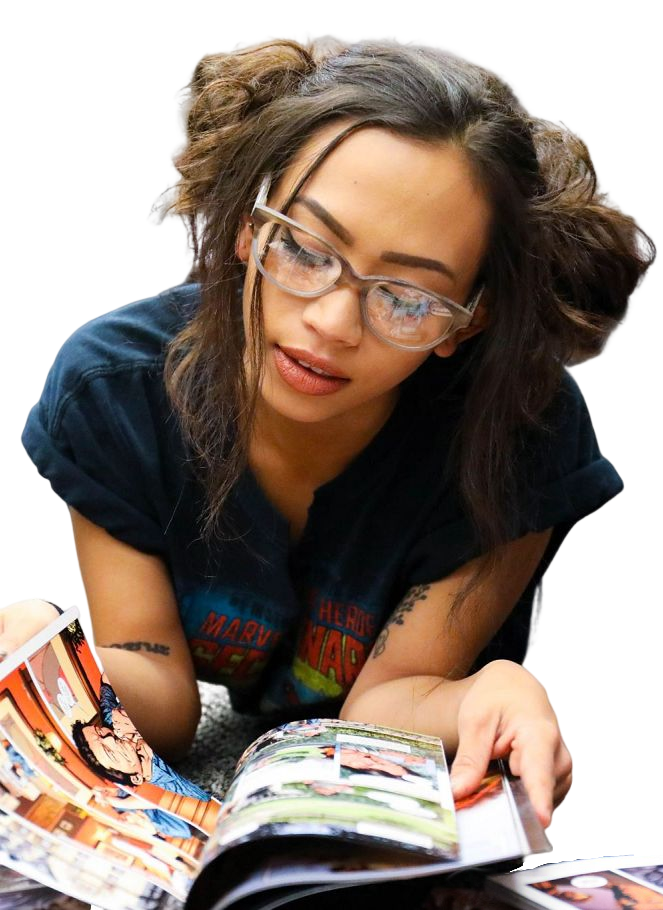
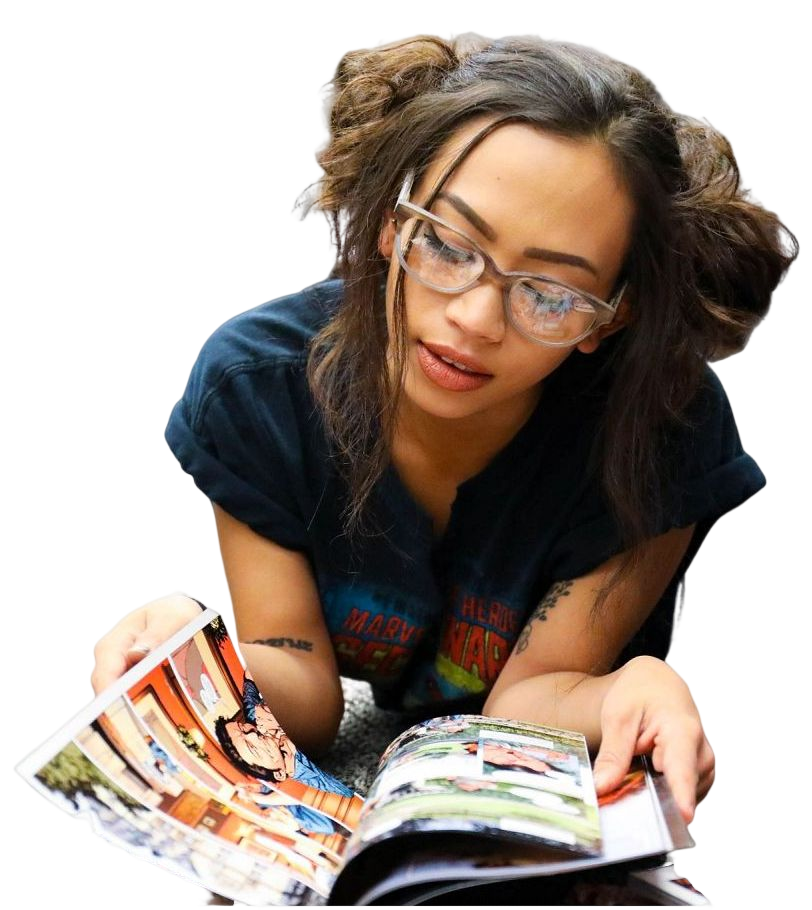
Atualização

diff --git a/src/components/header/Header.jsx b/src/components/header/Header.jsx
@@ -1,7 +1,7 @@
 import React from 'react'
 import './header.css'
 import CTA from './CTA'
-import SOBRE from '../../assets/sobre1.png'
+import SOBRE from '../../assets/sobre.png'
 import HeaderSocials from './HeaderSocials'
 
 const Header = () => {
